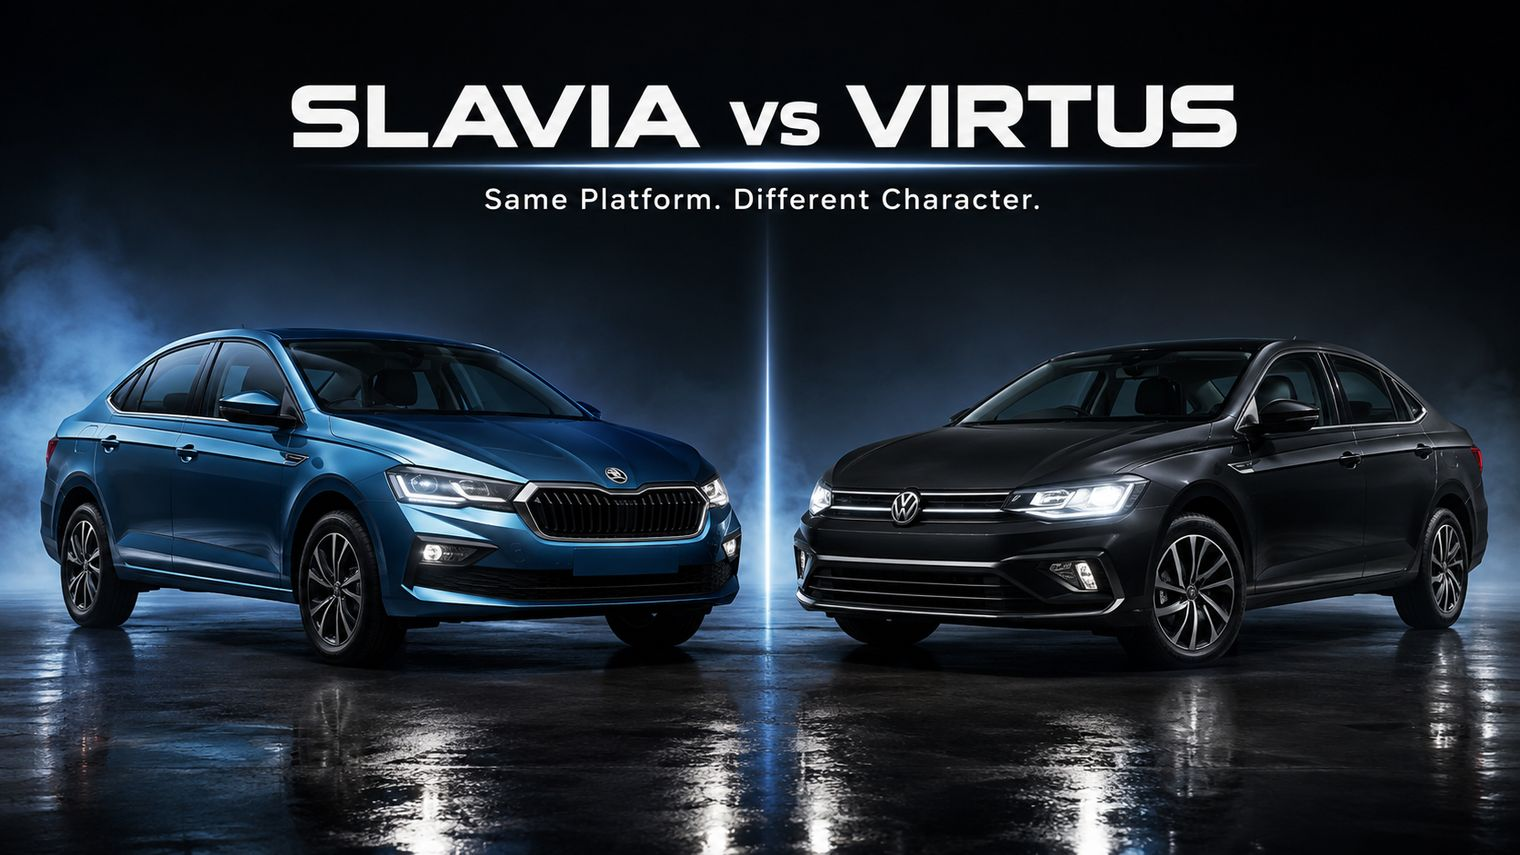
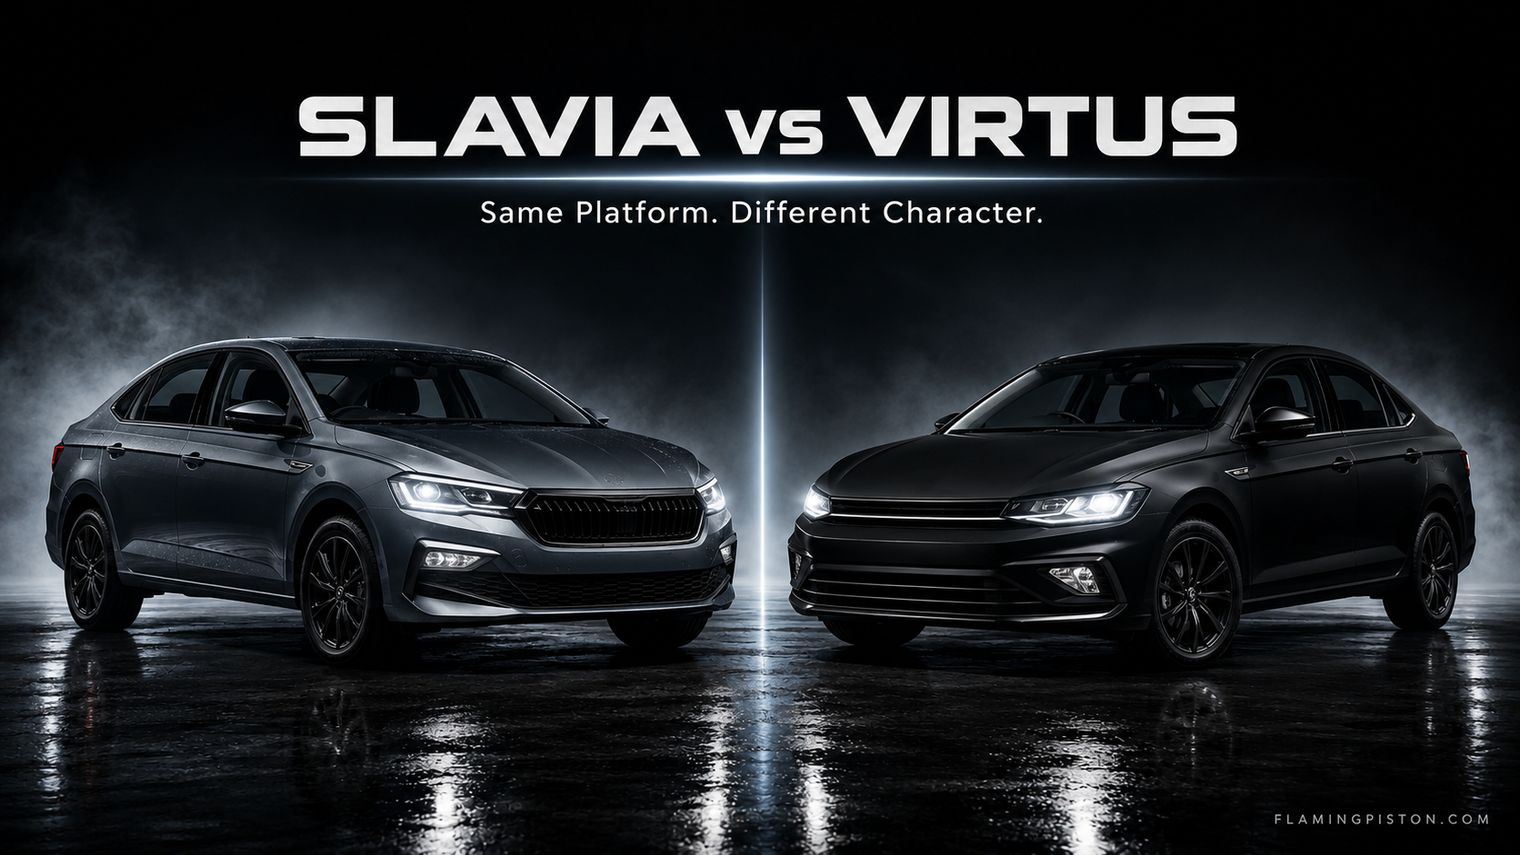
dasd

diff --git a/reviews/2026-slavia-vs-virtus/index.html b/reviews/2026-slavia-vs-virtus/index.html
@@ -113,7 +113,7 @@
     <span class="tag">Comparison</span>
     <h1>Skoda Slavia Facelift vs Volkswagen Virtus: Which Should You Buy?</h1>
 
-    <img class="hero-image" src="../../images/slavia-vs-virtus-hero.jpg" alt="Skoda Slavia facelift in blue and Volkswagen Virtus in black, side by side studio shot, 'Slavia vs Virtus: Same Platform. Different Character.'">
+    <img class="hero-image" src="../../images/slavia-vs-virtus-hero.jpg" alt="Skoda Slavia facelift in grey and Volkswagen Virtus in black, side by side studio shot, 'Slavia vs Virtus: Same Platform. Different Character.'">
     <div class="photo-caption">Image: FlamingPiston</div>
 
     <div class="author-block">
@@ -159,7 +159,7 @@
         <tr><td>Top-end price</td><td>~₹18.00 – 19.00 Lakh*</td><td>₹19.20 – 19.40 Lakh</td></tr>
         <tr><td>Powertrains</td><td>1.0 TSI, 1.5 TSI (petrol only)</td><td>1.0 TSI, 1.5 TSI (petrol only)</td></tr>
       </table>
-      <p>*Skoda hadn't published an official variant-wise price list at the time of writing — see our full <a href="2026-skoda-slavia-facelift/">Slavia facelift review</a> for the latest update once confirmed. Based on pre-launch estimates, the Slavia will likely start slightly above the Virtus, which makes sense given the added equipment and the new gearbox. At the top end, the two have historically landed within a few thousand rupees of each other, and there's no reason to expect that to change here.</p>
+      <p>*Skoda hadn't published an official variant-wise price list at the time of writing — see our full <a href="../2026-skoda-slavia-facelift/">Slavia facelift review</a> for the latest update once confirmed. Based on pre-launch estimates, the Slavia will likely start slightly above the Virtus, which makes sense given the added equipment and the new gearbox. At the top end, the two have historically landed within a few thousand rupees of each other, and there's no reason to expect that to change here.</p>
     </div>
 
     <div class="section-block">
@@ -251,7 +251,7 @@
     </div>
 
     <div class="section-block">
-      <p class="mono" style="font-family:'Space Mono',monospace;font-size:.82rem;color:var(--ink-soft);line-height:2;">More on the Slavia: <a href="2026-skoda-slavia-facelift/">Full Facelift Review</a> &middot; <a href="../news-skoda-slavia-facelift.html">Launch News</a></p>
+      <p class="mono" style="font-family:'Space Mono',monospace;font-size:.82rem;color:var(--ink-soft);line-height:2;">More on the Slavia: <a href="../2026-skoda-slavia-facelift/">Full Facelift Review</a> &middot; <a href="../../news-skoda-slavia-facelift.html">Launch News</a></p>
     </div>
 
     <a href="../../reviews.html" class="back-inline" id="backInline"><svg viewBox="0 0 24 24" fill="none" stroke="currentColor" stroke-width="2"><path d="M19 12H5M12 19l-7-7 7-7"/></svg>Back to where you came from</a>

diff --git a/style.css b/style.css
@@ -235,7 +235,8 @@ section.tight{padding:48px 0;}
 img[src*="images/news-"],
 img[src*="brezza-vs-nexon-hero"],
 img[src*="brezza-vs-fronx-hero"],
-img[src*="brezza-automatic-hero"]{object-fit:contain;background:var(--ink);}
+img[src*="brezza-automatic-hero"],
+img[src*="slavia-vs-virtus-hero"]{object-fit:contain;background:var(--ink);}
 img[src*="hilux-front"]{object-position:30% 50%;}
 img[src*="syros-front"]{object-position:46% 50%;}
 .card-media .tag{
